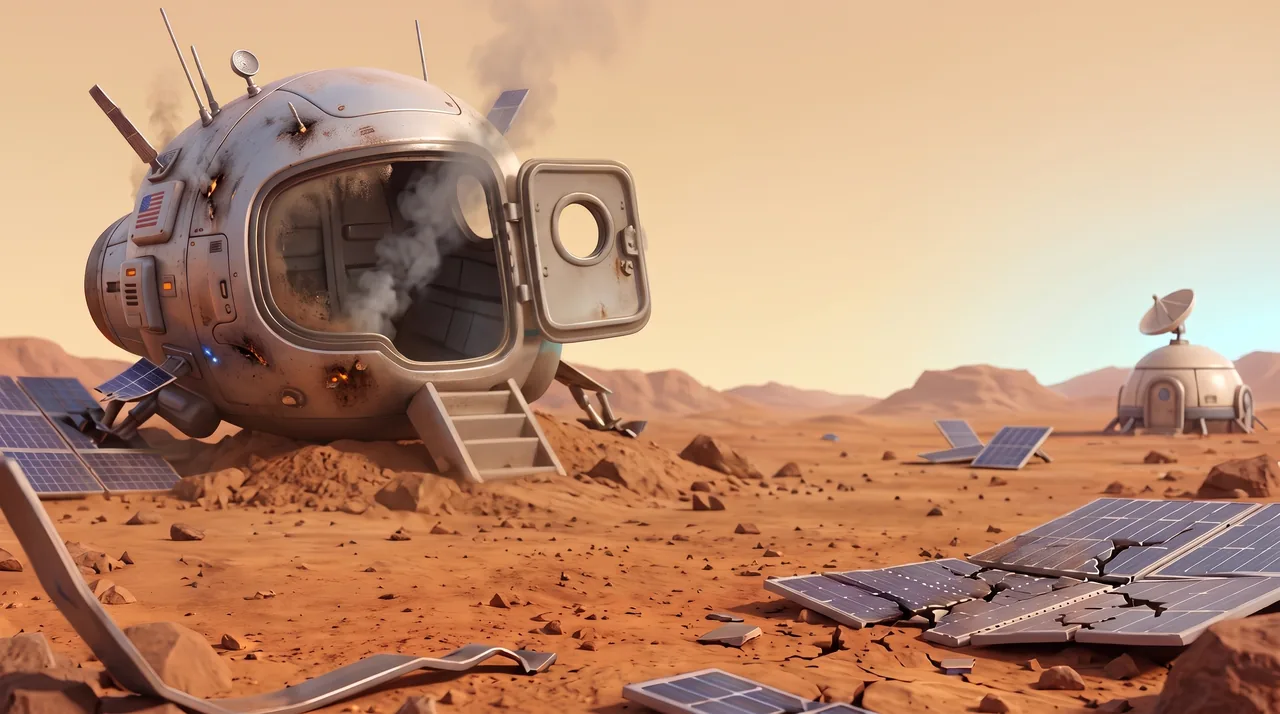
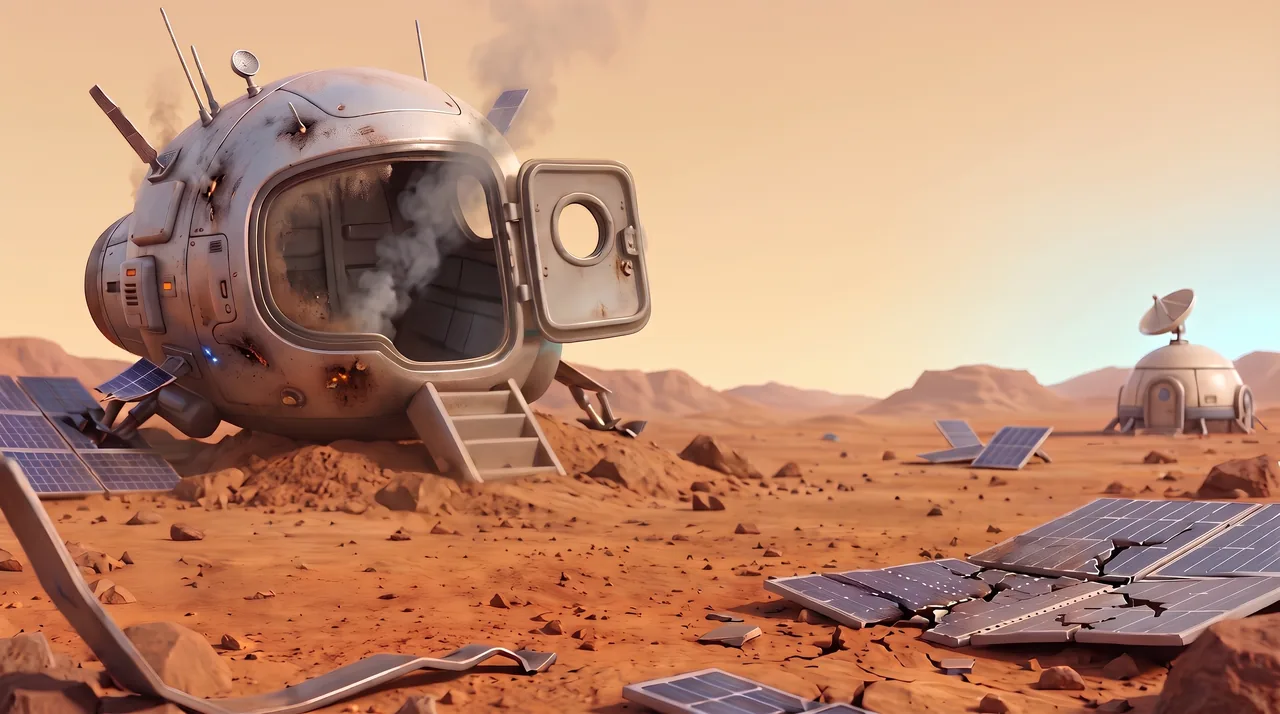
chore: re-roll the no-cat plates for scenes 06 and 13
06-crash-nocat: 87,056 B (1280x714), US flag decal gone; small stylized crash flames remain. 13-ending-nocat: 50,612 B (1280x633), flag and lettering gone; the plate is 2.02:1, wider than the other scenes. Manifest and docs updated.

diff --git a/docs/image-prompts.md b/docs/image-prompts.md
@@ -103,7 +103,7 @@
 - 使用說明與表情定義：`src/assets/generated/README.md`、`src/assets/avatars/README.md`。
 - 01、05–29 全部有對應成品；17–19 的 `_hat` 是額外產出（prompt 未要求，用來做戴頭盔頭像）。
 - MVP 打包仍只載入 §0.5 的 8 張（約 779 KB），其餘是替換與後續素材。
-- 2026-11-14 另加入無貓背景底板（`scenes/06`、`08`–`10`、`12`–`13` 的 `*-nocat.webp`），**候選素材、尚未接入遊戲**；11 只有「有車＋貓」原圖與「沒車也沒貓」的 `11-cold-patrol-nocar.webp` 兩個版本，不做空車版。06 與 13 仍有美國國旗貼布，13 為 1.98:1、比其他張寬。
+- 2026-11-14 另加入無貓背景底板（`scenes/06`、`08`–`10`、`12`–`13` 的 `*-nocat.webp`），**候選素材、尚未接入遊戲**；11 只有「有車＋貓」原圖與「沒車也沒貓」的 `11-cold-patrol-nocar.webp` 兩個版本，不做空車版。06 與 13 的底板已於同日重出，沒有美國國旗貼布；13 為 2.02:1、比其他張寬；06 仍有風格化的小火焰。
 - OG 底圖由第 30 號 prompt 生成（2848×1504）。原圖貓群高於上方 30%、也超出中央 80%，處理時把整張等比縮進安全區（三貓上緣 y=197、左右 199–1001 px），再用邊緣像素延伸深色漸層補滿留白，最後由程式疊標題與 `Fly My Mind`。
 
 **已知偏差（2026-11-14 抽查 01、06、13、23、25、29 與 OG）：**
